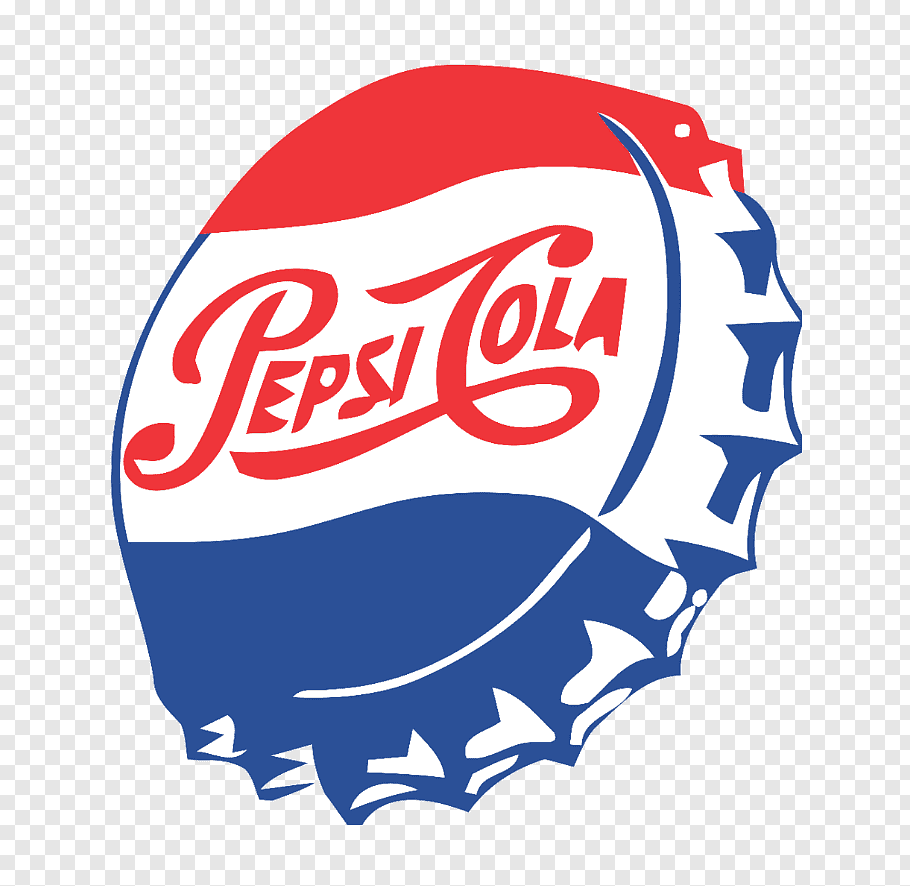
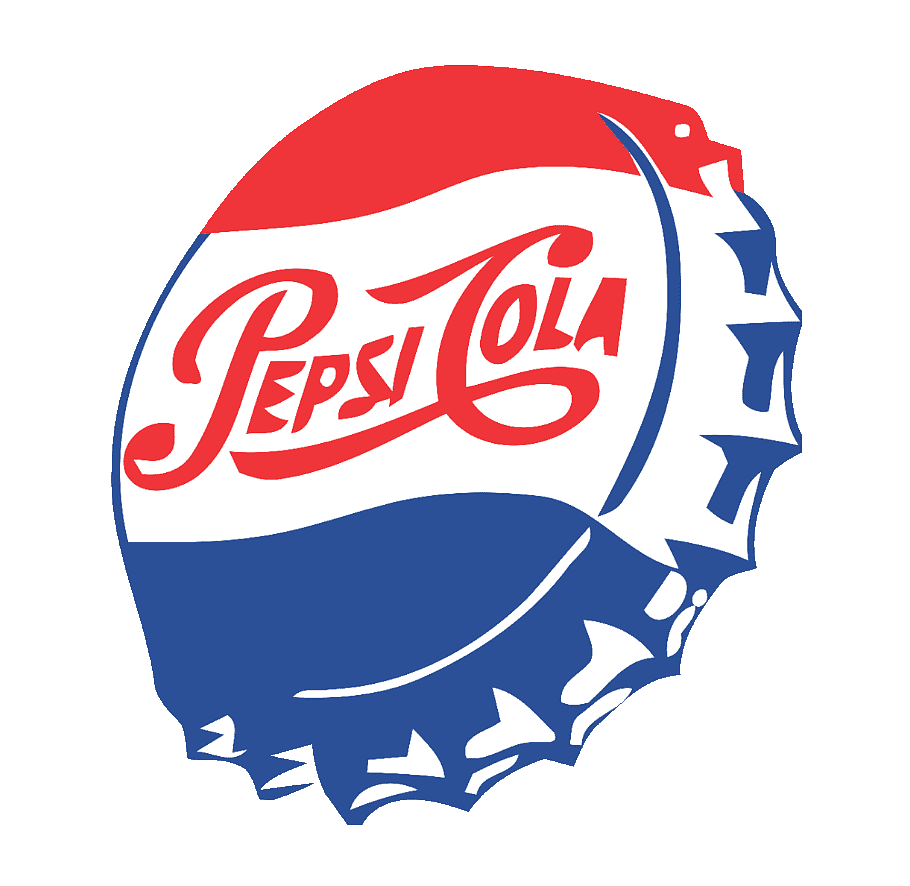
changing head image

Changed region(s): [[0.0, 0.0, 1.0, 1.0]]

diff --git a/readme.md b/readme.md
@@ -1,4 +1,4 @@
-<p align="center"><img  width="150"src="/public/bottlecap.gif"/></p>
+<p align="center"><img  width="200"src="/public/pepsicola.png"/></p>
 
 <h1 align="center">Pepsi-Petition</h1>
 <br>
